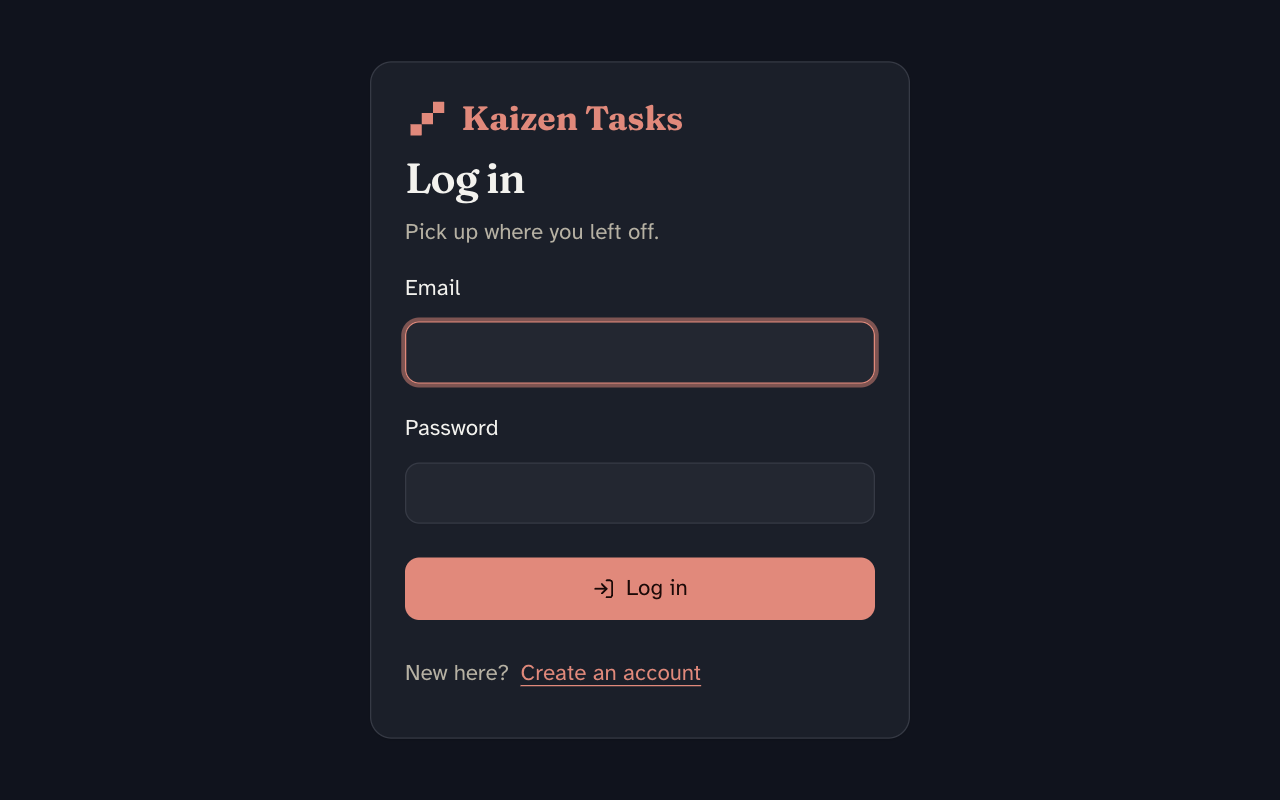
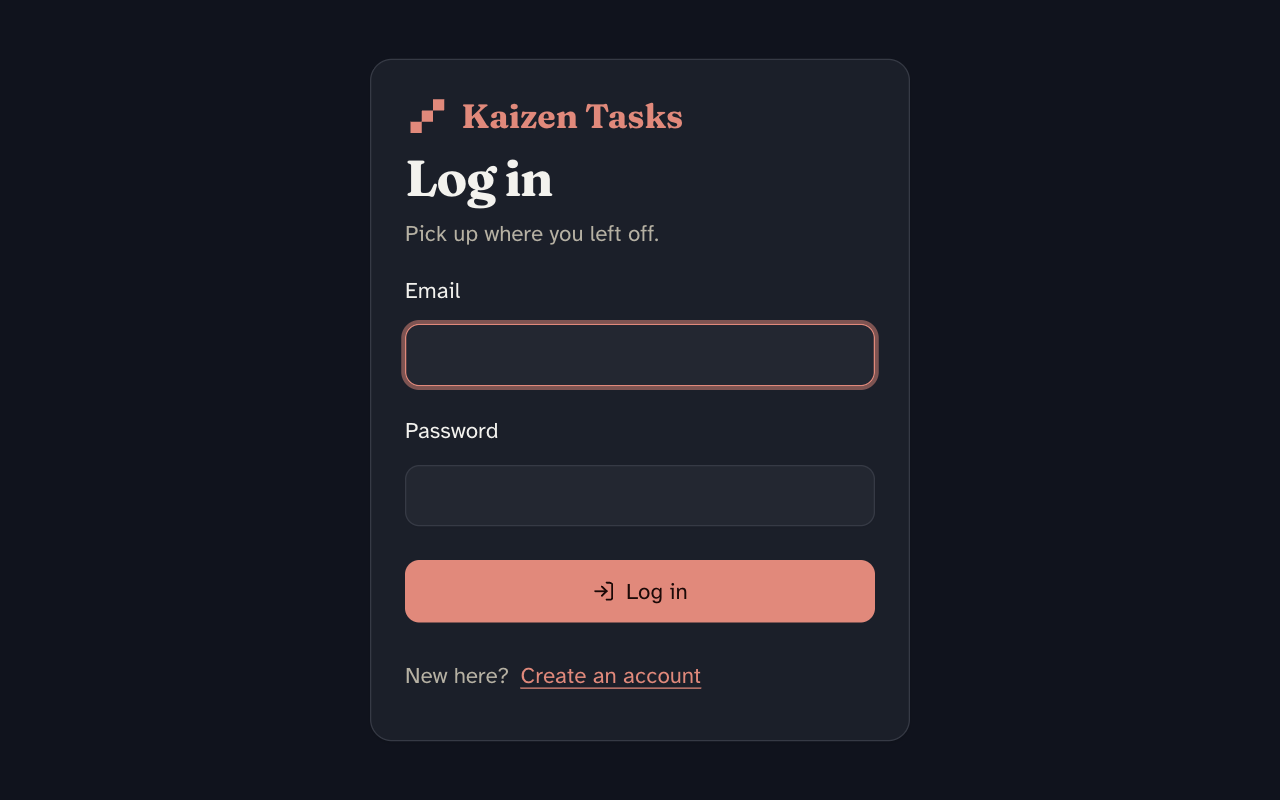
ui: card.tsx back to the CLI file, headings inside CardTitle
docs/ui-conventions.md (Surfaces) says Card and CardTitle are plain divs
with no asChild and stay that way, because a local Slot in
src/components/ui/card.tsx is lost to the next
`npx shadcn@latest add card --overwrite`; a contract heading is a real
heading inside CardTitle. card.tsx on develop still carried the auth
PR's hand-added asChild and both auth pages used it. The doc's rule is
the one we keep, so the code follows it.

- card.tsx re-added with the CLI; only the asChild hunk (and its Slot
  import) leaves. The CLI's `cn` import is repointed at `@/lib/cn` like
  every other primitive, the stray `cn` package it installed is dropped,
  and CardDescription keeps the projector `text-base` that
  tests/projector-scale.test.tsx pins.
- LoginPage and RegisterPage: `<CardTitle><h1>…</h1></CardTitle>`, no
  className on either. The h1 takes the page-heading type globals.css
  gives every h1 (Fraunces, bold, text-4xl) instead of the 3xl semibold
  CardTitle's classes had leaked onto it through asChild; "Create your
  account" now wraps to two lines in the card. The redundant
  CardDescription text-base overrides go, the base carries it.
- auth.test.tsx pins the h1's parent as data-slot="card-title";
  tests/projector-rules.test.ts pins card.tsx free of asChild/Slot and
  both pages on the CardTitle > h1 shape.
- Auth screenshots (login, register, and their -error variants)
  recaptured in both themes; CHANGELOG and product map updated.

diff --git a/tests/projector-rules.test.ts b/tests/projector-rules.test.ts
@@ -2,10 +2,11 @@ import { readFileSync } from "node:fs";
 import { join } from "node:path";
 import { describe, expect, it } from "vitest";
 
-// Two projector rules from docs/ui-conventions.md that live in shared files rather than in any one
-// screen: copy a user must read is 18px (`text-base` against the 18px root) and every control has a
-// 44px hit area. Vitest runs with `css: false`, so, like tests/accent-tokens.test.ts, these read the
-// sources as text: a shadcn primitive re-added with `--overwrite` would silently bring `text-sm` back.
+// Rules from docs/ui-conventions.md that live in shared files rather than in any one screen: copy a
+// user must read is 18px (`text-base` against the 18px root), every control has a 44px hit area, and
+// card.tsx stays the CLI's (the Surfaces rule). Vitest runs with `css: false`, so, like
+// tests/accent-tokens.test.ts, these read the sources as text: a shadcn primitive re-added with
+// `--overwrite` would silently bring `text-sm` back, and a local `asChild` would be lost the same way.
 
 const ROOT = process.cwd();
 const read = (path: string) => readFileSync(join(ROOT, path), "utf8");
@@ -21,7 +22,9 @@ describe("projector rules", () => {
       expect(source, file).not.toMatch(/\btext-sm\b/);
     }
     for (const page of ["src/features/auth/LoginPage.tsx", "src/features/auth/RegisterPage.tsx"]) {
-      expect(read(page), page).not.toMatch(/<Alert(Description)?[^>]*className="[^"]*text-base/);
+      expect(read(page), page).not.toMatch(
+        /<(Alert|Card)(Description)?[^>]*className="[^"]*text-base/,
+      );
     }
   });
 
@@ -35,5 +38,18 @@ describe("projector rules", () => {
     const selectors = rule![0].split("{")[0];
     expect(selectors).toContain("a[data-nav]");
     expect(selectors).toContain('a[data-slot="button"]');
+  });
+
+  it("keeps card.tsx the CLI's, with a contract heading as a real h1 inside CardTitle", () => {
+    // The Surfaces rule: card.tsx has no asChild and gets none, because a local Slot would be lost
+    // to the next `npx shadcn@latest add card --overwrite`. A heading the selector contract pins
+    // is `<CardTitle><h1>…</h1></CardTitle>`, with no className on either: the h1 takes the
+    // page-heading type globals.css gives every h1, and CardTitle only places it.
+    const card = read("src/components/ui/card.tsx");
+    expect(card).not.toContain("asChild");
+    expect(card).not.toContain("Slot");
+    for (const page of ["src/features/auth/LoginPage.tsx", "src/features/auth/RegisterPage.tsx"]) {
+      expect(read(page), page).toMatch(/<CardTitle>\s*<h1>/);
+    }
   });
 });

diff --git a/src/features/auth/auth.test.tsx b/src/features/auth/auth.test.tsx
@@ -46,7 +46,11 @@ describe("login", () => {
 
   it("opens with the email field focused, an iconed submit, and a link to registration", () => {
     renderApp({ route: "/login", session: "anonymous" });
-    expect(screen.getByRole("heading", { name: "Log in", level: 1 })).toBeInTheDocument();
+    // A real h1 inside CardTitle, not CardTitle rendered as the h1: card.tsx has no asChild (the
+    // Surfaces rule in docs/ui-conventions.md), so the heading keeps the page-heading type
+    // globals.css gives every h1 and CardTitle only places it.
+    const heading = screen.getByRole("heading", { name: "Log in", level: 1 });
+    expect(heading.parentElement).toHaveAttribute("data-slot", "card-title");
     expect(screen.getByLabelText("Email")).toHaveFocus();
     expect(screen.getByRole("button", { name: "Log in" }).querySelector("svg")).toHaveAttribute(
       "aria-hidden",
@@ -126,9 +130,8 @@ describe("register", () => {
 
   it("opens with the email field focused and links back to login", () => {
     renderApp({ route: "/register", session: "anonymous" });
-    expect(
-      screen.getByRole("heading", { name: "Create your account", level: 1 }),
-    ).toBeInTheDocument();
+    const heading = screen.getByRole("heading", { name: "Create your account", level: 1 });
+    expect(heading.parentElement).toHaveAttribute("data-slot", "card-title");
     expect(screen.getByLabelText("Email")).toHaveFocus();
     expect(
       screen.getByRole("button", { name: "Create account" }).querySelector("svg"),

diff --git a/src/features/auth/LoginPage.tsx b/src/features/auth/LoginPage.tsx
@@ -20,9 +20,9 @@ import { Spinner } from "@/components/ui/spinner";
 import { useLogin } from "./hooks";
 
 /** The sign-in screen: one Card centred in the viewport, so the whole form sits inside the
- *  projector's fold. The heading keeps its h1 through `CardTitle asChild` (the selector contract
- *  pins heading "Log in"), field errors come from the API through `Field`, and an error that
- *  belongs to no field is one destructive Alert; the two never mount together. */
+ *  projector's fold. The heading is a real h1 inside `CardTitle` (the selector contract pins
+ *  heading "Log in"; card.tsx has no asChild), field errors come from the API through `Field`, and
+ *  an error that belongs to no field is one destructive Alert; the two never mount together. */
 export function LoginPage() {
   const login = useLogin();
   const [email, setEmail] = useState("");
@@ -39,10 +39,10 @@ export function LoginPage() {
               <KaizenMark />
               <span className="font-display text-2xl font-bold">Kaizen Tasks</span>
             </div>
-            <CardTitle asChild className="text-3xl">
+            <CardTitle>
               <h1>Log in</h1>
             </CardTitle>
-            <CardDescription className="text-base">Pick up where you left off.</CardDescription>
+            <CardDescription>Pick up where you left off.</CardDescription>
           </CardHeader>
           <CardContent>
             <form

diff --git a/src/components/ui/card.tsx b/src/components/ui/card.tsx
@@ -1,6 +1,5 @@
 import * as React from "react"
 import { cn } from "@/lib/cn"
-import { Slot } from "radix-ui"
 
 function Card({ className, ...props }: React.ComponentProps<"div">) {
   return (
@@ -28,15 +27,9 @@ function CardHeader({ className, ...props }: React.ComponentProps<"div">) {
   )
 }
 
-function CardTitle({
-  className,
-  asChild = false,
-  ...props
-}: React.ComponentProps<"div"> & { asChild?: boolean }) {
-  const Comp = asChild ? Slot.Root : "div"
-
+function CardTitle({ className, ...props }: React.ComponentProps<"div">) {
   return (
-    <Comp
+    <div
       data-slot="card-title"
       className={cn("leading-none font-semibold", className)}
       {...props}

diff --git a/src/features/auth/RegisterPage.tsx b/src/features/auth/RegisterPage.tsx
@@ -42,12 +42,10 @@ export function RegisterPage() {
               <KaizenMark />
               <span className="font-display text-2xl font-bold">Kaizen Tasks</span>
             </div>
-            <CardTitle asChild className="text-3xl">
+            <CardTitle>
               <h1>Create your account</h1>
             </CardTitle>
-            <CardDescription className="text-base">
-              Big tasks, broken into steps you choose.
-            </CardDescription>
+            <CardDescription>Big tasks, broken into steps you choose.</CardDescription>
           </CardHeader>
           <CardContent>
             <form

diff --git a/CHANGELOG.md b/CHANGELOG.md
@@ -13,11 +13,12 @@ The format is based on [Keep a Changelog](https://keepachangelog.com/en/1.1.0/),
 ### Changed
 
 - The app shell on shadcn (ui-rework, shell): the primary nav links are `NavButton`s (`src/components/nav-button.tsx`), a `NavLink` in Button clothes with an icon and the current screen as the secondary variant; the theme control is a `dropdown-menu` whose trigger shows the current choice as its icon (with its word from `xl` up, where the header has room) and keeps the accessible name "Theme"; the display name truncates at twelve characters; the footer's API segment is a `Badge`, outline when the versions match and destructive with a visible "web and API versions differ" note when they do not; the 404 is an `Empty` with a "Go to your tasks" button, shown inside the shell for a signed-in user and in a bare frame with the footer otherwise, decided by one catch-all route (ADR 0009). Shared pieces: `Field` wraps the shadcn Field, keeps the hint beside the error and owns `aria-describedby`; `InlineText` is a ghost `Button` with a pencil instead of a hover title and edits in `Input`/`Textarea` at the size of the text it replaces, at every breakpoint; `TagChip` is an outline `Badge` around the exported `TagSwatch`, its remove control a square `Button`. Screenshot scenario `theme-open` replaces `theme-focused`, and the `add-frontend-feature` page template starts from `Skeleton`, `Alert`, `Empty` and `flex gap`.
-- The auth screens on shadcn (ui-rework, auth): `/login` and `/register` are one `Card` each, centred in the viewport (`CardHeader` with the wordmark, the h1 through `CardTitle asChild` so the headings "Log in" and "Create your account" keep their role, and a one-line description; `CardContent` with the form in a `FieldGroup`; `CardFooter` with the cross link as a link `Button`). An error that belongs to no field is a destructive `Alert` with an icon and a title ("Could not log in", "Could not create your account") above the submit, never mounted beside a field error; the submit carries a `LogIn`/`UserPlus` icon that becomes a `Spinner` while pending, and the email field is focused on arrival. The pages spell no `aria-describedby` themselves: the `Field` wrapper wires the hint and the error, so "At least 8 characters" stays on screen beside a password error. The restoring screen shows a `Spinner` beside "Restoring your session" (status "Session" unchanged). `CardTitle` gains `asChild`. Screenshot scenarios `login` and `register` sign out inside `ready()` (the runner arrives signed in) and set the theme cache to `system` so the emulated colour scheme decides the theme. Review round: `Alert` moves its base scale to `text-base` (root and description), the way `Badge` did, so every callout clears the 18px floor with no call-site override; the 44px hit-area rule in `globals.css` now names `a[data-slot="button"]`, so a `Button asChild` around a `Link` (the auth cross links, the 404's "Go to your tasks") gets the same target as a button. `tests/projector-rules.test.ts` pins both.
+- The auth screens on shadcn (ui-rework, auth): `/login` and `/register` are one `Card` each, centred in the viewport (`CardHeader` with the wordmark, the h1 as a real heading inside `CardTitle` so "Log in" and "Create your account" keep their role, and a one-line description; `CardContent` with the form in a `FieldGroup`; `CardFooter` with the cross link as a link `Button`). An error that belongs to no field is a destructive `Alert` with an icon and a title ("Could not log in", "Could not create your account") above the submit, never mounted beside a field error; the submit carries a `LogIn`/`UserPlus` icon that becomes a `Spinner` while pending, and the email field is focused on arrival. The pages spell no `aria-describedby` themselves: the `Field` wrapper wires the hint and the error, so "At least 8 characters" stays on screen beside a password error. The restoring screen shows a `Spinner` beside "Restoring your session" (status "Session" unchanged). Screenshot scenarios `login` and `register` sign out inside `ready()` (the runner arrives signed in) and set the theme cache to `system` so the emulated colour scheme decides the theme. Review round: `Alert` moves its base scale to `text-base` (root and description), the way `Badge` did, so every callout clears the 18px floor with no call-site override; the 44px hit-area rule in `globals.css` now names `a[data-slot="button"]`, so a `Button asChild` around a `Link` (the auth cross links, the 404's "Go to your tasks") gets the same target as a button. `tests/projector-rules.test.ts` pins both.
 - The task detail on shadcn (ui-rework, tasks-detail): each step is a four-column grid row (drag handle as a ghost icon `Button`, done, title, actions) so the action column never wraps at the projector's width; Accept keeps its name with a check icon, Edit and Dismiss sit in a row `dropdown-menu` behind "More actions for <step>", an accepted AI step shows a secondary "AI" `Badge` instead of a lone icon, and the "Suggested by AI" pill is a secondary `Button` anchoring the unchanged rationale popover. The status select is a group of three pressed `Button`s (To do / In progress / Done) with icons; "Add tag" opens a `dropdown-menu` named "Available tags" whose items carry the shared `TagSwatch`; "Suggested tags" is an outline `Badge` beside full-height chips. The three assistant states and the suggestions bar share one `Alert` row shape (`components/banner.ts`): thinking and skipped are status regions named "Assistant", failed is the destructive alert with "Breakdown failed" as its title and the API message as its description, the bar is a group; one outline Retry/Regenerate variant with a `Spinner` while pending. Loading is a `Skeleton` stack named "Loading task", a missing task is a destructive `Alert` with an outline "Back to tasks" button, the empty step list is an `Empty`, dismissed steps are a `Collapsible` with a "Dismissed" chip and an iconed Undo, "All tasks" is a ghost button, and the page stacks with `flex gap`. Screenshot scenarios `task-detail`, `task-detail-steps` and `task-detail-skipped` share `scripts/screenshots/lib/task.mjs`, which creates the task through the create bar inside `act` because the runner asserts the static route first.
 - The Tags page on shadcn (ui-rework, tags): the list is a `Table` named "Your tags" whose rows are named by the tag, each with a round outline swatch button that opens the palette, the palette colour's name as an outline `Badge` beside it (`paletteName` in `src/lib/tag-palette.ts`, so hue is never the only signal), the name editing in place behind its pencil, and a square outline delete button in a non-wrapping last column. The palette is a shadcn `RadioGroup` of swatch items: Radix owns the roving focus and the arrow keys (Home and End now move focus without checking, as a native radio group does), the chosen swatch carries a check mark and a foreground border, and `RadioGroupItem` accepts children as its indicator so a caller can draw that mark. The create form is a `Card` ("New tag") holding the Name `Field`, a `FieldSet` whose legend "Color" names the radio group, and a "Create tag" button with a plus that turns into a spinner while it saves. Loading is three skeleton rows in the table's shape behind a "Loading tags" status, empty is an `Empty` with the same sentence as before, and a failed load is a destructive `Alert` ("Could not load tags", the API message) with a "Try again" button. New screenshot scenario `tags`. From this PR's review, `docs/ui-conventions.md` gains two shared rules: a pending button hides its `Spinner` from the accessibility tree (`aria-hidden="true"`) so its name never changes, and a `Card` that must be a form, list item or section is wrapped in that element, never given `asChild`. From the second review round, the reading primitives ship at the projector size once: `Table` (and `TableCaption`), `Alert` and `AlertDescription`, `CardDescription`, `EmptyDescription` and `EmptyContent` move their base from `text-sm` to `text-base`, as `Badge` already had, pinned by `tests/projector-scale.test.tsx`; the Tags page drops its six per-call `text-base` overrides and the remaining area PRs need none.
 - The Request page on shadcn (ui-rework, feature-request): "Requests so far" is a `Table` with five aligned columns (#, the request with its triage scores as chips under the title, stage, readiness, the GitHub link as an outline button in a non-wrapping last cell) and two named groups, Open and Closed; every stage is a visible `Badge` variant with its own icon, loading is `Skeleton` rows, nothing yet is an `Empty`, a failure is a destructive `Alert` with "Try again". The interview's two panels are `Card`s: the transcript scrolls inside a `ScrollArea` fixed at 40vh, with its scrollbar always drawn, and follows the newest turn, the answer box is a `Field` with a visible "Your answer" label and the keyboard contract as its hint, "Your request" has a visible title and its readiness score opens a `Popover` with the three sub-scores and the assistant's reasons instead of a hover title, empty fields are "Not filled in yet" chips, and the footer says why "Review and file" is disabled. The filed confirmation is a `Card` with "Open the issue" and "File another" as buttons, the unavailable and failed-start branches are `Alert`s, the form wraps its fields in a `FieldGroup`, keeps a "Nothing was filed" `Alert` with the API's message after a failed filing, and shows a `Spinner` on "Send request" while GitHub answers; every action control carries an icon. An anchor in Button clothes (`Button asChild`) shares the 44px min-height in `globals.css`. Screenshot scenarios `requests-so-far` and `request-feature-form` are new; `request-feature` captures the interview.
 - The task list on shadcn (ui-rework, tasks-list): each row is a `Card` on the `listitem` the smoke test names by the title, laid out as a grid whose title cell yields (the title truncates) to a rail of progress and AI state that never wraps, so rows keep one height at 125% zoom; the progress bar is the `Progress` primitive at 12 by 128px, says "done of total steps done" for the screen reader and shows nothing for a task with no counted steps yet (no empty bar, no 0/0), on the detail header too; the AI chips are one `Badge` variant per meaning with an icon each (secondary "Thinking" and skipped reasons, default "N suggestions", destructive "Breakdown failed") and a failed breakdown carries its message in a destructive `Alert` on the row's second line with an outline Retry that spins while it runs; the create bar is a `Card` whose title and description fields have visible labels and a hint, "Add description" is an outline button with a plus and "Add task" spins while it saves; the status and tag filters are fieldsets with visible legends, unselected choices are outline buttons, every status has an icon, a pressed tag shows a check beside its `TagSwatch`, and the tag group keeps its place with skeleton pills while tags load and toasts once if they fail; loading is three `Skeleton` rows in the `role="status"` region, empty is an `Empty` ("No tasks" over the sentence other screens copy), the error is a destructive `Alert` ("Could not load tasks") with a "Try again" that carries an icon, and "Load more" spins while the next page loads. The "N suggestions" chip, the one link among the chips, is 44px tall like every other control. New screenshot scenarios: `tasks-rows` seeds three rows through the API; `tasks-failed` rewrites one of them to a failed breakdown in the browser, since the dev API's fake provider never fails.
+- `src/components/ui/card.tsx` is the CLI's file again (`npx shadcn@latest add card --overwrite`, with the `cn` import repointed at `@/lib/cn` and `CardDescription` kept at `text-base`): the hand-added `asChild` on `CardTitle` is gone, as the Surfaces rule in `docs/ui-conventions.md` says it must be. The auth headings are real headings inside `CardTitle` (`<CardTitle><h1>Log in</h1></CardTitle>`), so "Log in" and "Create your account" keep their role and take the page-heading type `globals.css` gives every `h1` (Fraunces, bold, `text-4xl`, the size of "Your tasks") instead of the 3xl semibold that `CardTitle`'s own classes had leaked onto them through `asChild`, so "Create your account" now wraps to two lines in the card; the two pages drop their `CardDescription` `text-base` overrides, which the primitive's base now carries. `tests/projector-rules.test.ts` pins card.tsx free of `asChild` and both pages on that shape; the auth screenshots are recaptured.
 
 ## [1.4.0] - 2026-09-11
 

diff --git a/docs/product-map.md b/docs/product-map.md
@@ -94,11 +94,11 @@ Reviewed: 2026-09-10 against ../docs/PRD.md sections 3, 5.1-5.5, 6.3.
 
 - **Added** — The shadcn primitives the UI rework composes from, added with the CLI (`npx shadcn@latest add`): `alert`, `empty`, `spinner`, `skeleton`, `progress`, `table`, `collapsible`, `radio-group`, `scroll-ar…
 - **Changed** — The app shell on shadcn (ui-rework, shell): the primary nav links are `NavButton`s (`src/components/nav-button.tsx`), a `NavLink` in Button clothes with an icon and the current screen as the secondar…
-- **Changed** — The auth screens on shadcn (ui-rework, auth): `/login` and `/register` are one `Card` each, centred in the viewport (`CardHeader` with the wordmark, the h1 through `CardTitle asChild` so the headings…
+- **Changed** — The auth screens on shadcn (ui-rework, auth): `/login` and `/register` are one `Card` each, centred in the viewport (`CardHeader` with the wordmark, the h1 as a real heading inside `CardTitle` so "Lo…
 - **Changed** — The task detail on shadcn (ui-rework, tasks-detail): each step is a four-column grid row (drag handle as a ghost icon `Button`, done, title, actions) so the action column never wraps at the projector…
 - **Changed** — The Tags page on shadcn (ui-rework, tags): the list is a `Table` named "Your tags" whose rows are named by the tag, each with a round outline swatch button that opens the palette, the palette colour'…
 - **Changed** — The Request page on shadcn (ui-rework, feature-request): "Requests so far" is a `Table` with five aligned columns (#, the request with its triage scores as chips under the title, stage, readiness, th…
-- …and 1 more under [Unreleased] in CHANGELOG.md
+- …and 2 more under [Unreleased] in CHANGELOG.md
 
 ### 1.4.0 — 2026-09-11
 
